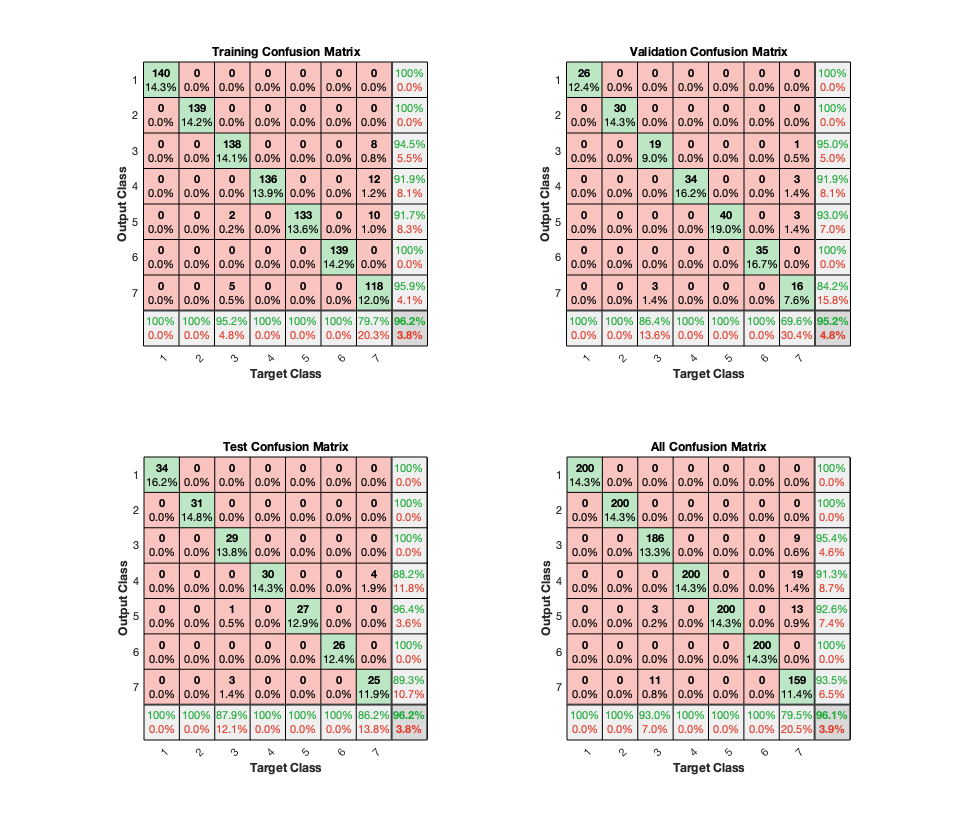
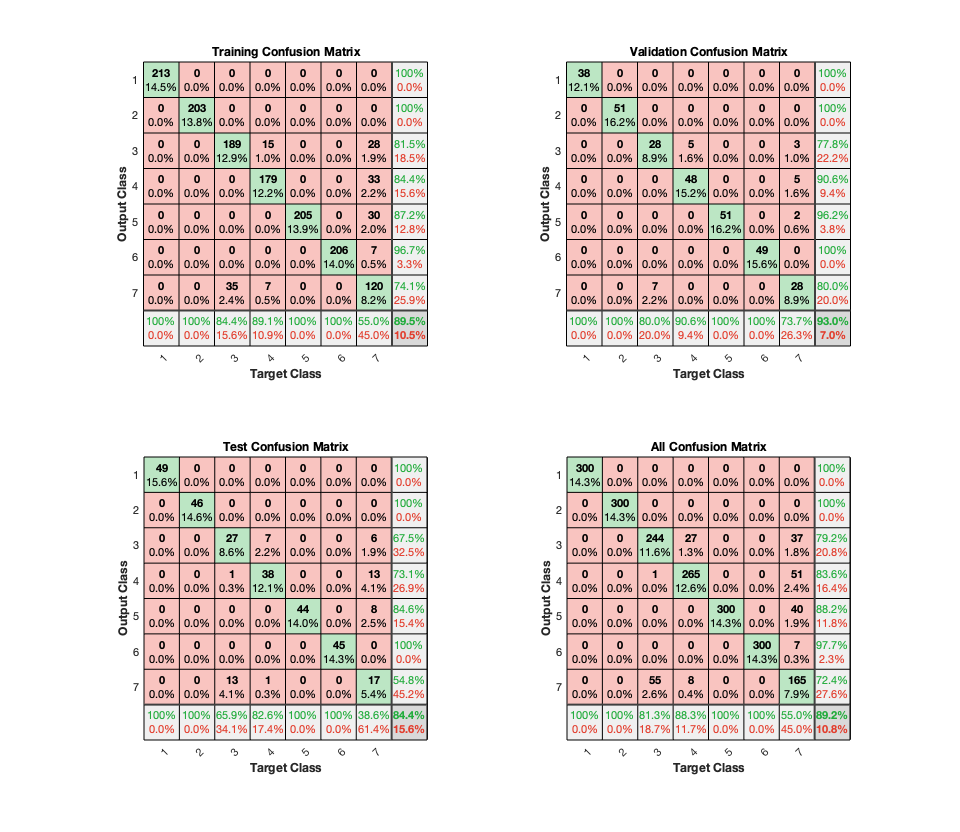
Implement the 3-layer patternnets based on different features on the CWRU data set, variable loads

diff --git a/src/models/CWRU/vload_top3_features_patternnet.m b/src/models/CWRU/vload_top3_features_patternnet.m
@@ -1,10 +1,10 @@
 clear;
 Z = 5;
 M = 700;
-F_stacked = zeros((Z + 1) * 3, M * 2);
-T_stacked = zeros(7, M * 2);
+F_stacked = zeros((Z + 1) * 3, M * 3);
+T_stacked = zeros(7, M * 3);
 
-% load the CWRU data set, load=1HP & load=2HP, and stack EEMD feature #5
+% load the CWRU data set, load=1HP & load=2HP & load=3HP, and stack EEMD feature #5
 load('data/processed/CWRU/a_EEMD_F5_z0.mat');
 F_stacked(1, 1:M) = F;
 load('data/processed/CWRU/a_EEMD_F5_z0.5.mat');
@@ -25,9 +25,19 @@ load('data/processed/CWRU/c_EEMD_F5_z1.5.mat');
 F_stacked(4, 701:M*2) = F;
 load('data/processed/CWRU/c_EEMD_F5_z2.mat');
 F_stacked(5, 701:M*2) = F;
+load('data/processed/CWRU/d_EEMD_F5_z0.mat');
+F_stacked(1, 1401:M*3) = F;
+load('data/processed/CWRU/d_EEMD_F5_z0.5.mat');
+F_stacked(2, 1401:M*3) = F;
+load('data/processed/CWRU/d_EEMD_F5_z1.mat');
+F_stacked(3, 1401:M*3) = F;
+load('data/processed/CWRU/d_EEMD_F5_z1.5.mat');
+F_stacked(4, 1401:M*3) = F;
+load('data/processed/CWRU/d_EEMD_F5_z2.mat');
+F_stacked(5, 1401:M*3) = F;
 F_stacked(6, :) = mean(F_stacked(1:5, :), 1);
 
-% load the CWRU data set, load=1HP & load=2HP, and stack EEMD feature #6
+% load the CWRU data set, load=1HP & load=2HP & load=3HP, and stack EEMD feature #6
 load('data/processed/CWRU/a_EEMD_F6_z0.mat');
 F_stacked(7, 1:M) = F;
 load('data/processed/CWRU/a_EEMD_F6_z0.5.mat');
@@ -48,9 +58,19 @@ load('data/processed/CWRU/c_EEMD_F6_z1.5.mat');
 F_stacked(10, 701:M*2) = F;
 load('data/processed/CWRU/c_EEMD_F6_z2.mat');
 F_stacked(11, 701:M*2) = F;
+load('data/processed/CWRU/d_EEMD_F6_z0.mat');
+F_stacked(7, 1401:M*3) = F;
+load('data/processed/CWRU/d_EEMD_F6_z0.5.mat');
+F_stacked(8, 1401:M*3) = F;
+load('data/processed/CWRU/d_EEMD_F6_z1.mat');
+F_stacked(9, 1401:M*3) = F;
+load('data/processed/CWRU/d_EEMD_F6_z1.5.mat');
+F_stacked(10, 1401:M*3) = F;
+load('data/processed/CWRU/d_EEMD_F6_z2.mat');
+F_stacked(11, 1401:M*3) = F;
 F_stacked(12, :) = mean(F_stacked(7:11, :), 1);
 
-% load the CWRU data set, load=1HP & load=2HP, and stack frequency-domain feature #14
+% load the CWRU data set, load=1HP & load=2HP & load=3HP, and stack frequency-domain feature #14
 load('data/processed/CWRU/a_stats_F14_freq_z0.mat');
 F_stacked(13, 1:M) = F;
 load('data/processed/CWRU/a_stats_F14_freq_z0.5.mat');
@@ -71,10 +91,21 @@ load('data/processed/CWRU/c_stats_F14_freq_z1.5.mat');
 F_stacked(16, 701:M*2) = F;
 load('data/processed/CWRU/c_stats_F14_freq_z2.mat');
 F_stacked(17, 701:M*2) = F;
+load('data/processed/CWRU/d_stats_F14_freq_z0.mat');
+F_stacked(13, 1401:M*3) = F;
+load('data/processed/CWRU/d_stats_F14_freq_z0.5.mat');
+F_stacked(14, 1401:M*3) = F;
+load('data/processed/CWRU/d_stats_F14_freq_z1.mat');
+F_stacked(15, 1401:M*3) = F;
+load('data/processed/CWRU/d_stats_F14_freq_z1.5.mat');
+F_stacked(16, 1401:M*3) = F;
+load('data/processed/CWRU/d_stats_F14_freq_z2.mat');
+F_stacked(17, 1401:M*3) = F;
 F_stacked(18, :) = mean(F_stacked(13:17, :), 1);
 
 T_stacked(:, 1:M) = T_onehot;
 T_stacked(:, 701:M*2) = T_onehot;
+T_stacked(:, 1401:M*3) = T_onehot;
 
 % set random seed
 setdemorandstream(491218382)

diff --git a/src/models/CWRU/vload_top3_average_patternnet.m b/src/models/CWRU/vload_top3_average_patternnet.m
@@ -1,10 +1,10 @@
 clear;
 Z = 5;
 M = 700;
-F_stacked = zeros((Z + 1) * 3, M * 2);
-T_stacked = zeros(7, M * 2);
+F_stacked = zeros((Z + 1) * 3, M * 3);
+T_stacked = zeros(7, M * 3);
 
-% load the CWRU data set, load=1HP & load=2HP, and stack EEMD feature #5
+% load the CWRU data set, load=1HP & load=2HP & load=3HP, and stack EEMD feature #5
 load('data/processed/CWRU/a_EEMD_F5_z0.mat');
 F_stacked(1, 1:M) = F;
 load('data/processed/CWRU/a_EEMD_F5_z0.5.mat');
@@ -25,9 +25,19 @@ load('data/processed/CWRU/c_EEMD_F5_z1.5.mat');
 F_stacked(4, 701:M*2) = F;
 load('data/processed/CWRU/c_EEMD_F5_z2.mat');
 F_stacked(5, 701:M*2) = F;
+load('data/processed/CWRU/d_EEMD_F5_z0.mat');
+F_stacked(1, 1401:M*3) = F;
+load('data/processed/CWRU/d_EEMD_F5_z0.5.mat');
+F_stacked(2, 1401:M*3) = F;
+load('data/processed/CWRU/d_EEMD_F5_z1.mat');
+F_stacked(3, 1401:M*3) = F;
+load('data/processed/CWRU/d_EEMD_F5_z1.5.mat');
+F_stacked(4, 1401:M*3) = F;
+load('data/processed/CWRU/d_EEMD_F5_z2.mat');
+F_stacked(5, 1401:M*3) = F;
 F_stacked(6, :) = mean(F_stacked(1:5, :), 1);
 
-% load the CWRU data set, load=1HP & load=2HP, and stack EEMD feature #6
+% load the CWRU data set, load=1HP & load=2HP & load=3HP, and stack EEMD feature #6
 load('data/processed/CWRU/a_EEMD_F6_z0.mat');
 F_stacked(7, 1:M) = F;
 load('data/processed/CWRU/a_EEMD_F6_z0.5.mat');
@@ -48,9 +58,19 @@ load('data/processed/CWRU/c_EEMD_F6_z1.5.mat');
 F_stacked(10, 701:M*2) = F;
 load('data/processed/CWRU/c_EEMD_F6_z2.mat');
 F_stacked(11, 701:M*2) = F;
+load('data/processed/CWRU/d_EEMD_F6_z0.mat');
+F_stacked(7, 1401:M*3) = F;
+load('data/processed/CWRU/d_EEMD_F6_z0.5.mat');
+F_stacked(8, 1401:M*3) = F;
+load('data/processed/CWRU/d_EEMD_F6_z1.mat');
+F_stacked(9, 1401:M*3) = F;
+load('data/processed/CWRU/d_EEMD_F6_z1.5.mat');
+F_stacked(10, 1401:M*3) = F;
+load('data/processed/CWRU/d_EEMD_F6_z2.mat');
+F_stacked(11, 1401:M*3) = F;
 F_stacked(12, :) = mean(F_stacked(7:11, :), 1);
 
-% load the CWRU data set, load=1HP & load=2HP, and stack frequency-domain feature #14
+% load the CWRU data set, load=1HP & load=2HP & load=3HP, and stack frequency-domain feature #14
 load('data/processed/CWRU/a_stats_F14_freq_z0.mat');
 F_stacked(13, 1:M) = F;
 load('data/processed/CWRU/a_stats_F14_freq_z0.5.mat');
@@ -71,10 +91,21 @@ load('data/processed/CWRU/c_stats_F14_freq_z1.5.mat');
 F_stacked(16, 701:M*2) = F;
 load('data/processed/CWRU/c_stats_F14_freq_z2.mat');
 F_stacked(17, 701:M*2) = F;
+load('data/processed/CWRU/d_stats_F14_freq_z0.mat');
+F_stacked(13, 1401:M*3) = F;
+load('data/processed/CWRU/d_stats_F14_freq_z0.5.mat');
+F_stacked(14, 1401:M*3) = F;
+load('data/processed/CWRU/d_stats_F14_freq_z1.mat');
+F_stacked(15, 1401:M*3) = F;
+load('data/processed/CWRU/d_stats_F14_freq_z1.5.mat');
+F_stacked(16, 1401:M*3) = F;
+load('data/processed/CWRU/d_stats_F14_freq_z2.mat');
+F_stacked(17, 1401:M*3) = F;
 F_stacked(18, :) = mean(F_stacked(13:17, :), 1);
 
 T_stacked(:, 1:M) = T_onehot;
 T_stacked(:, 701:M*2) = T_onehot;
+T_stacked(:, 1401:M*3) = T_onehot;
 
 F_avg = F_stacked([6 12 18], :);
 

diff --git a/src/models/CWRU/vload_stats_F14_patternnet.m b/src/models/CWRU/vload_stats_F14_patternnet.m
@@ -1,10 +1,10 @@
 clear;
 Z = 5;
 M = 700;
-F_stacked = zeros(Z + 1, M * 2);
-T_stacked = zeros(7, M * 2);
+F_stacked = zeros(Z + 1, M * 3);
+T_stacked = zeros(7, M * 3);
 
-% load the CWRU data set, load=1HP & load=2HP, and stack features
+% load the CWRU data set, load=1HP & load=2HP & load=3HP, and stack features
 load('data/processed/CWRU/a_stats_F14_freq_z0.mat');
 F_stacked(1, 1:M) = F;
 load('data/processed/CWRU/a_stats_F14_freq_z0.5.mat');
@@ -25,10 +25,21 @@ load('data/processed/CWRU/c_stats_F14_freq_z1.5.mat');
 F_stacked(4, 701:M*2) = F;
 load('data/processed/CWRU/c_stats_F14_freq_z2.mat');
 F_stacked(5, 701:M*2) = F;
+load('data/processed/CWRU/d_stats_F14_freq_z0.mat');
+F_stacked(1, 1401:M*3) = F;
+load('data/processed/CWRU/d_stats_F14_freq_z0.5.mat');
+F_stacked(2, 1401:M*3) = F;
+load('data/processed/CWRU/d_stats_F14_freq_z1.mat');
+F_stacked(3, 1401:M*3) = F;
+load('data/processed/CWRU/d_stats_F14_freq_z1.5.mat');
+F_stacked(4, 1401:M*3) = F;
+load('data/processed/CWRU/d_stats_F14_freq_z2.mat');
+F_stacked(5, 1401:M*3) = F;
 F_stacked(6, :) = mean(F_stacked, 1);
 
 T_stacked(:, 1:M) = T_onehot;
 T_stacked(:, 701:M*2) = T_onehot;
+T_stacked(:, 1401:M*3) = T_onehot;
 
 % set random seed
 setdemorandstream(491218382)

diff --git a/src/models/CWRU/vload_stats_F19_patternnet.m b/src/models/CWRU/vload_stats_F19_patternnet.m
@@ -1,10 +1,10 @@
 clear;
 Z = 5;
 M = 700;
-F_stacked = zeros(Z + 1, M * 2);
-T_stacked = zeros(7, M * 2);
+F_stacked = zeros(Z + 1, M * 3);
+T_stacked = zeros(7, M * 3);
 
-% load the CWRU data set, load=1HP & load=2HP, and stack features
+% load the CWRU data set, load=1HP & load=2HP & load=3HP, and stack features
 load('data/processed/CWRU/a_stats_F19_freq_z0.mat');
 F_stacked(1, 1:M) = F;
 load('data/processed/CWRU/a_stats_F19_freq_z0.5.mat');
@@ -25,10 +25,21 @@ load('data/processed/CWRU/c_stats_F19_freq_z1.5.mat');
 F_stacked(4, 701:M*2) = F;
 load('data/processed/CWRU/c_stats_F19_freq_z2.mat');
 F_stacked(5, 701:M*2) = F;
+load('data/processed/CWRU/d_stats_F19_freq_z0.mat');
+F_stacked(1, 1401:M*3) = F;
+load('data/processed/CWRU/d_stats_F19_freq_z0.5.mat');
+F_stacked(2, 1401:M*3) = F;
+load('data/processed/CWRU/d_stats_F19_freq_z1.mat');
+F_stacked(3, 1401:M*3) = F;
+load('data/processed/CWRU/d_stats_F19_freq_z1.5.mat');
+F_stacked(4, 1401:M*3) = F;
+load('data/processed/CWRU/d_stats_F19_freq_z2.mat');
+F_stacked(5, 1401:M*3) = F;
 F_stacked(6, :) = mean(F_stacked, 1);
 
 T_stacked(:, 1:M) = T_onehot;
 T_stacked(:, 701:M*2) = T_onehot;
+T_stacked(:, 1401:M*3) = T_onehot;
 
 % set random seed
 setdemorandstream(491218382)

diff --git a/src/models/CWRU/vload_EEMD_F1_patternnet.m b/src/models/CWRU/vload_EEMD_F1_patternnet.m
@@ -1,10 +1,10 @@
 clear;
 Z = 5;
 M = 700;
-F_stacked = zeros(Z + 1, M * 2);
-T_stacked = zeros(7, M * 2);
+F_stacked = zeros(Z + 1, M * 3);
+T_stacked = zeros(7, M * 3);
 
-% load the CWRU data set, load=1HP & load=2HP, and stack features
+% load the CWRU data set, load=1HP & load=2HP & load=3HP, and stack features
 load('data/processed/CWRU/a_EEMD_F1_z0.mat');
 F_stacked(1, 1:M) = F;
 load('data/processed/CWRU/a_EEMD_F1_z0.5.mat');
@@ -25,10 +25,21 @@ load('data/processed/CWRU/c_EEMD_F1_z1.5.mat');
 F_stacked(4, 701:M*2) = F;
 load('data/processed/CWRU/c_EEMD_F1_z2.mat');
 F_stacked(5, 701:M*2) = F;
+load('data/processed/CWRU/d_EEMD_F1_z0.mat');
+F_stacked(1, 1401:M*3) = F;
+load('data/processed/CWRU/d_EEMD_F1_z0.5.mat');
+F_stacked(2, 1401:M*3) = F;
+load('data/processed/CWRU/d_EEMD_F1_z1.mat');
+F_stacked(3, 1401:M*3) = F;
+load('data/processed/CWRU/d_EEMD_F1_z1.5.mat');
+F_stacked(4, 1401:M*3) = F;
+load('data/processed/CWRU/d_EEMD_F1_z2.mat');
+F_stacked(5, 1401:M*3) = F;
 F_stacked(6, :) = mean(F_stacked, 1);
 
 T_stacked(:, 1:M) = T_onehot;
 T_stacked(:, 701:M*2) = T_onehot;
+T_stacked(:, 1401:M*3) = T_onehot;
 
 % set random seed
 setdemorandstream(491218382)

diff --git a/src/models/CWRU/vload_EEMD_F5_patternnet.m b/src/models/CWRU/vload_EEMD_F5_patternnet.m
@@ -1,10 +1,10 @@
 clear;
 Z = 5;
 M = 700;
-F_stacked = zeros(Z + 1, M * 2);
-T_stacked = zeros(7, M * 2);
+F_stacked = zeros(Z + 1, M * 3);
+T_stacked = zeros(7, M * 3);
 
-% load the CWRU data set, load=1HP & load=2HP, and stack features
+% load the CWRU data set, load=1HP & load=2HP & load=3HP, and stack features
 load('data/processed/CWRU/a_EEMD_F5_z0.mat');
 F_stacked(1, 1:M) = F;
 load('data/processed/CWRU/a_EEMD_F5_z0.5.mat');
@@ -25,10 +25,21 @@ load('data/processed/CWRU/c_EEMD_F5_z1.5.mat');
 F_stacked(4, 701:M*2) = F;
 load('data/processed/CWRU/c_EEMD_F5_z2.mat');
 F_stacked(5, 701:M*2) = F;
+load('data/processed/CWRU/d_EEMD_F5_z0.mat');
+F_stacked(1, 1401:M*3) = F;
+load('data/processed/CWRU/d_EEMD_F5_z0.5.mat');
+F_stacked(2, 1401:M*3) = F;
+load('data/processed/CWRU/d_EEMD_F5_z1.mat');
+F_stacked(3, 1401:M*3) = F;
+load('data/processed/CWRU/d_EEMD_F5_z1.5.mat');
+F_stacked(4, 1401:M*3) = F;
+load('data/processed/CWRU/d_EEMD_F5_z2.mat');
+F_stacked(5, 1401:M*3) = F;
 F_stacked(6, :) = mean(F_stacked, 1);
 
 T_stacked(:, 1:M) = T_onehot;
 T_stacked(:, 701:M*2) = T_onehot;
+T_stacked(:, 1401:M*3) = T_onehot;
 
 % set random seed
 setdemorandstream(491218382)

diff --git a/src/models/CWRU/vload_EEMD_F6_patternnet.m b/src/models/CWRU/vload_EEMD_F6_patternnet.m
@@ -1,10 +1,10 @@
 clear;
 Z = 5;
 M = 700;
-F_stacked = zeros(Z + 1, M * 2);
-T_stacked = zeros(7, M * 2);
+F_stacked = zeros(Z + 1, M * 3);
+T_stacked = zeros(7, M * 3);
 
-% load the CWRU data set, load=1HP & load=2HP, and stack features
+% load the CWRU data set, load=1HP & load=2HP & load=3HP, and stack features
 load('data/processed/CWRU/a_EEMD_F6_z0.mat');
 F_stacked(1, 1:M) = F;
 load('data/processed/CWRU/a_EEMD_F6_z0.5.mat');
@@ -25,10 +25,21 @@ load('data/processed/CWRU/c_EEMD_F6_z1.5.mat');
 F_stacked(4, 701:M*2) = F;
 load('data/processed/CWRU/c_EEMD_F6_z2.mat');
 F_stacked(5, 701:M*2) = F;
+load('data/processed/CWRU/d_EEMD_F6_z0.mat');
+F_stacked(1, 1401:M*3) = F;
+load('data/processed/CWRU/d_EEMD_F6_z0.5.mat');
+F_stacked(2, 1401:M*3) = F;
+load('data/processed/CWRU/d_EEMD_F6_z1.mat');
+F_stacked(3, 1401:M*3) = F;
+load('data/processed/CWRU/d_EEMD_F6_z1.5.mat');
+F_stacked(4, 1401:M*3) = F;
+load('data/processed/CWRU/d_EEMD_F6_z2.mat');
+F_stacked(5, 1401:M*3) = F;
 F_stacked(6, :) = mean(F_stacked, 1);
 
 T_stacked(:, 1:M) = T_onehot;
 T_stacked(:, 701:M*2) = T_onehot;
+T_stacked(:, 1401:M*3) = T_onehot;
 
 % set random seed
 setdemorandstream(491218382)
